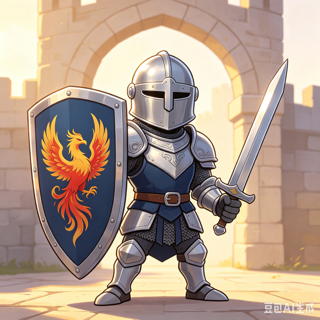
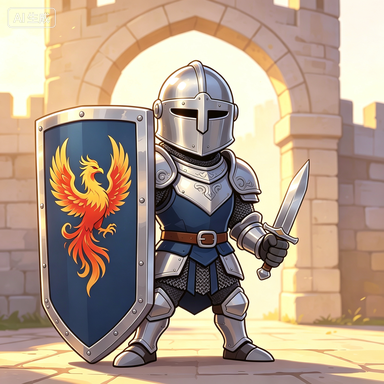
法官三句合并成一条；修同一句渲染两遍；可见范围标签说人话
- 「天亮了」「昨晚谁死了」「从几号开始发言」合并成法官的一句话，
  存活清单那条灰行挪到它后面
- 自动播放被浏览器拦住时，原来会把已经渲染过的那条塞回队首，续播时二次渲染 ——
  就是「游戏结束那句出现两遍」的来源。现在被拦了文字照常往下走，
  另外 apply() 按事件 id 去重兜底
- 可见范围标签「仅 3号/5号」→「只有 3号、5号 看得到」，并加 title 说明
  这条事件只进这些人的上下文

diff --git a/backend/game.py b/backend/game.py
@@ -425,20 +425,20 @@ class Game:
     async def _day(self) -> None:
         self.phase = "day"
         self._emit("phase", f"—— 第 {self.round} 天 ——")
-        self._judge(f"天亮了。现在是第 {self.round} 天。")
-        if self.night_death is None:
-            self._emit("result", "昨晚是平安夜。")
-        else:
-            self._emit("result", f"昨晚 {self.night_death} 号 倒牌出局，不留遗言。")
+        dead = ("昨晚是平安夜。" if self.night_death is None
+                else f"昨晚 {self.night_death} 号 倒牌出局，不留遗言。")
+        # 法官一口气报完：天数 + 死讯 + 发言顺序，别拆成三条
         if self._winner():
+            self._judge(f"天亮了。现在是第 {self.round} 天。{dead}")
             return
 
         alive = self.alive
         start = self.rng.choice(alive)
         i = alive.index(start)
         order = alive[i:] + alive[:i]
+        self._judge(f"天亮了。现在是第 {self.round} 天。{dead}"
+                    f"现在开始发言，从 {start} 号开始。")
         self._emit("system", f"存活玩家：{alive}，发言顺序：{order}。", order=order)
-        self._judge(f"现在开始发言，从 {start} 号开始。")
 
         for seat in order:
             p = self.player(seat)
